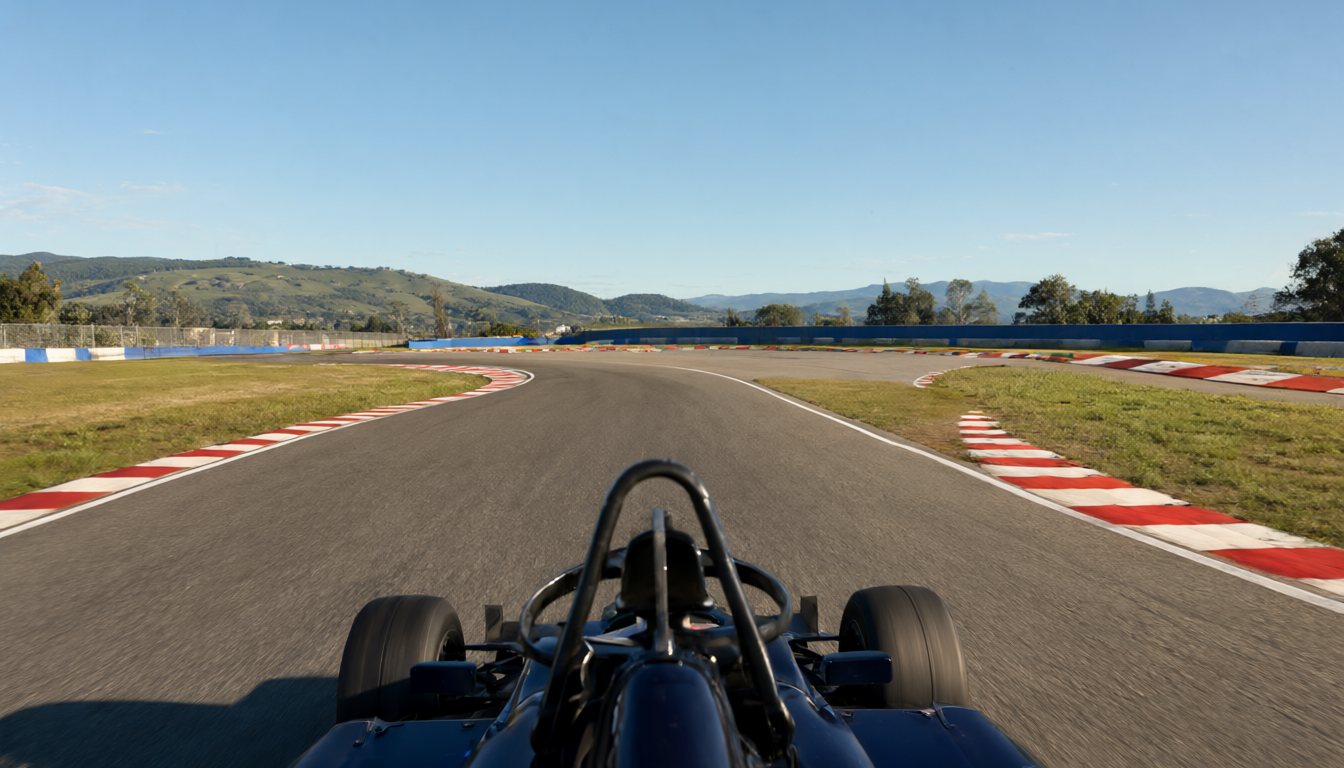
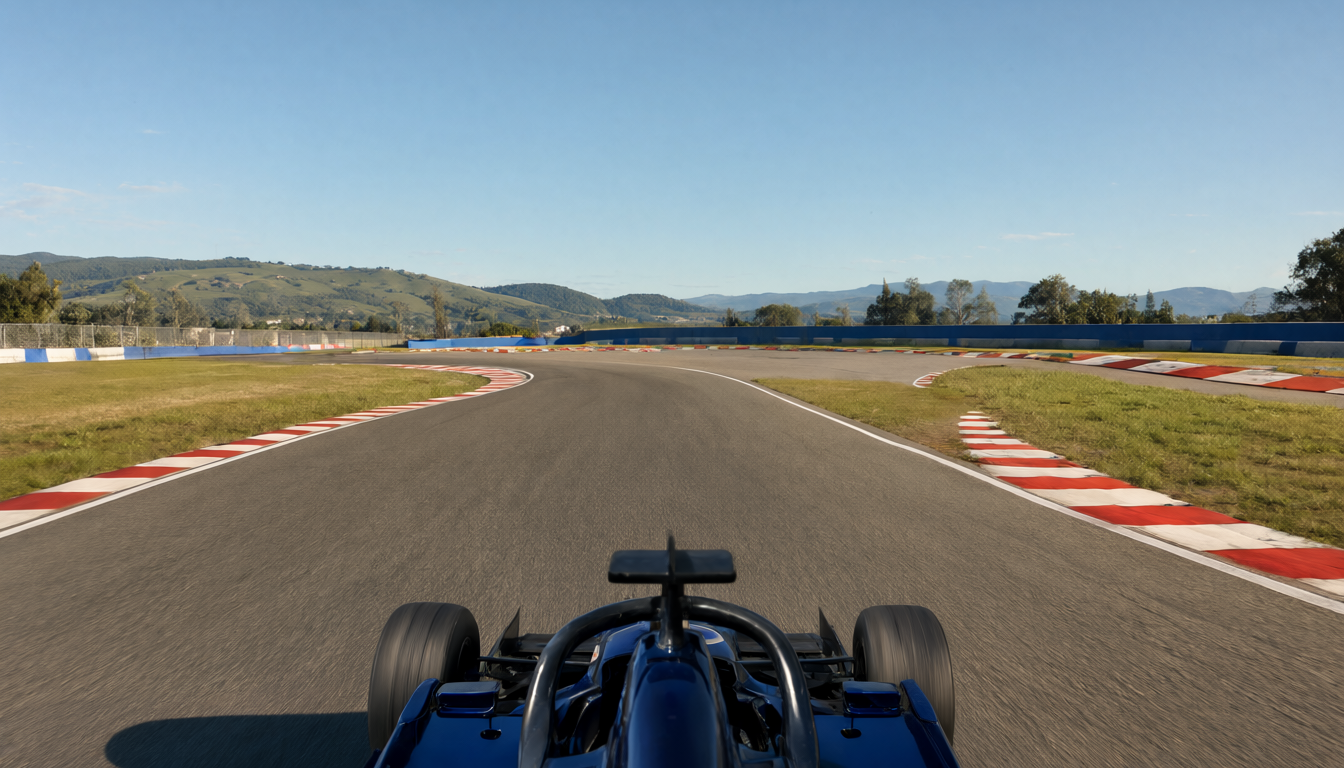
align light gantry and reshoot all shots with consistent car

diff --git a/scripts/make_notebooks.py b/scripts/make_notebooks.py
@@ -471,27 +471,27 @@ Each colour is the stretch one shot drives, and the circles mark the keyframes. 
 
 关键帧是镜头之间的“合同”：视频从首帧出发、必须到达尾帧，尾帧里画了什么，模型就往哪里开。所以每张图都要对照分镜检查，最重要的一条是：前方的路往哪边弯，要和地图一致。
 
-节点没有随机种子，提示词不变时重新生成也是同一张图。所以每张关键帧只生成 1 次；不对的时候，找出哪里和分镜不符，把它写进场景描述，再生成。下面是原项目里 K0 的 4 个版本，每一版都只改了一个问题：
+节点没有随机种子，提示词不变时重新生成也是同一张图。所以每张关键帧只生成 1 次；不对的时候，找出哪里和分镜不符，把它写进场景描述，再生成。下面是同一张 K0 的几次生成，每次只改一个问题：
 
 1. 直道远端先左弯、再右弯、再上坡；地图上从起终点线只能看到 T1 一个左弯。场景改为直道笔直、尽头只有一个左弯、四周平坦。
 2. 左弯离得太近，直道看起来只有两三百米；地图上约 1 km。场景改为直道一直延伸到消失点，左弯只在消失点处隐约可见。
 3. 路对了，但起跑灯架远在红车后面，红灯只剩几个小点。场景改为灯架在车前约 20 米、占满画面上部。
 4. 定稿。
 
-7 镜头成片用的是第 1 版，第 6 章会看到它带来的问题。
+终点 K7 的灯架要和 K0 是同一个，所以 K7 的场景描述把 K0 灯架的样子逐项写了进去。
 """, """
 ## Chapter 4: keyframes
 
 Keyframes are the "contract" between shots: the video starts at the first frame and must arrive at the last one, so the model drives toward whatever the last frame shows. Check every image against the storyboard; the most important check is that the road ahead bends the same way as on the map.
 
-The nodes have no random seed: with an unchanged prompt, generating again gives the same image. So generate each keyframe once; when it is wrong, find where it disagrees with the storyboard, write that into the scene description and generate again. Below are the 4 versions of K0 from the original project, each fixing one problem:
+The nodes have no random seed: with an unchanged prompt, generating again gives the same image. So generate each keyframe once; when it is wrong, find where it disagrees with the storyboard, write that into the scene description and generate again. Below are several generations of the same K0, each fixing one problem:
 
 1. The far end of the straight bends left, then right, then climbs; from the start/finish line the map shows only one left-hander, T1. The scene was changed to a dead-straight straight ending in a single left-hander, flat all around.
 2. The left-hander is too close, so the straight looks only two or three hundred metres long; on the map it is about 1 km. The scene was changed so the straight runs to the vanishing point, with the left-hander only faintly visible there.
 3. The road is right, but the start light gantry is far behind the red car and the red lights are just a few dots. The scene was changed to put the gantry about 20 m ahead of the car, filling the top of the frame.
 4. Final.
 
-The 7-shot film used version 1; chapter 6 shows the problems it caused.
+The gantry in the finishing K7 must be the same one as in K0, so K7's scene description spells out K0's gantry piece by piece.
 """),
     code("""
 show(*[PROJECT / "examples" / "k0_versions" / f"K0_v{v}.jpg" for v in range(1, 5)], width=440)
@@ -526,44 +526,45 @@ for i in range(8):
 show(*[COMFY / "input" / f"dream7_K{i}.png" for i in range(8)], width=300)
 """),
     md("""
-### 统一车身和灯架
+### 统一车身
 
-`style` 里写了赛车的样子，文生图还是每张各画各的车：halo 顶上的部件有大有小、车身有的带红色、机位有高有低；终点 K7 的灯架也和起点 K0 不一样。
-首尾帧是两辆车时，视频会在中途换车，相邻镜头又共用关键帧。原项目是拼完成片才发现、回头编辑，几乎所有镜头都重拍了一遍，所以这一步放在拍镜头之前。
+`style` 里写了赛车的样子，文生图还是每张各画各的车：halo 顶上的部件有大有小、车身有的带红色或白色、机位有高有低。
+首尾帧是两辆车时，视频会在中途换车，相邻镜头又共用关键帧，所以这一步放在拍镜头之前。
 
 编辑用本地 Qwen Image 2.1 模型（约 17 GB，需要 GPU），不花额度；网关的图像编辑在 16:9 下会把整张图弄出颗粒和过度锐化，暂时不用。
 
 在浏览器里（路线 B）：
 
 1. 把下一格的 `DOWNLOAD` 改成 `True` 并运行，下载缺的模型（已有的会跳过），然后重启 ComfyUI 或刷新页面。
-2. 打开 `dream7_keyframes_edit`，点 Run：以 K0 为参考，把 K1–K7 的车改成 K0 那辆，K7 的灯架改成一排 5 个灯、全部熄灭。第一次运行要编译，7 张约 15 分钟。
-3. 逐张检查：车和 K0 是同一辆、机位一致，路面走向、红车、看台这些场景没被改掉。不行就补一句指令或换 KSampler 的 seed 再运行。
+2. 打开 `dream7_keyframes_edit`，点 Run：以 K1 为参考，把 K0、K2–K7 的车改成 K1 那辆。
+3. 逐张检查：车和 K1 是同一辆、机位一致，路面走向、红车、看台这些场景没被改掉。不行就补一句指令或换 KSampler 的 seed 再运行。
 4. 满意后运行再下一格，编辑结果会覆盖 `input/` 里的关键帧，然后刷新页面。
 
-路线 A 直接运行下面几格：模型不会下载，挑选格什么都不做。自带的关键帧和视频是当时还没有这一步时生成的，下面最后一格是这次编辑的对比。讲解提纲见 `docs/ch4_keyframes.md`。
+路线 A 直接运行下面几格：模型不会下载，挑选格什么都不做。自带的关键帧已经统一过车身，自带的视频就是用它们拍的；下面最后一格是编辑前后的对比。讲解提纲见 `docs/ch4_keyframes.md`。
 """, """
-### Make the car and the gantry consistent
+### Make the car consistent
 
-`style` describes the car, but text-to-image still draws a different car in each keyframe: the part on top of the halo changes size, some bodies have red on them, the camera sits higher or lower; the gantry in the finishing K7 also differs from the one in the starting K0.
-When the first and last frame show two different cars, the video swaps cars midway, and neighbouring shots share keyframes. The original project only noticed this after stitching the film and edited the keyframes then, so nearly every shot had to be redone; that is why this step comes before the shots.
+`style` describes the car, but text-to-image still draws a different car in each keyframe: the part on top of the halo changes size, some bodies have red or white on them, the camera sits higher or lower.
+When the first and last frame show two different cars, the video swaps cars midway, and neighbouring shots share keyframes, so this step comes before the shots.
 
 The edit runs the local Qwen Image 2.1 model (about 17 GB, needs a GPU) and costs no credits; the gateway's image edit comes back grainy and over-sharpened at 16:9, so it is not used for now.
 
 In the browser (route B):
 
 1. Set `DOWNLOAD` in the next cell to `True` and run it to download the missing models (existing ones are skipped), then restart ComfyUI or reload the page.
-2. Open `dream7_keyframes_edit` and click Run: with K0 as the reference, the car in K1–K7 becomes K0's car, and the gantry in K7 becomes a single row of five lights, all off. The first run compiles kernels; 7 images take about 15 minutes.
-3. Check each one: the same car as K0 at the same camera height, with the road, the red car and the grandstands unchanged. If one is off, add a sentence to its instruction or change the KSampler seed and run again.
+2. Open `dream7_keyframes_edit` and click Run: with K1 as the reference, the car in K0 and K2–K7 becomes K1's car.
+3. Check each one: the same car as K1 at the same camera height, with the road, the red car and the grandstands unchanged. If one is off, add a sentence to its instruction or change the KSampler seed and run again.
 4. When you are happy, run the cell after next: the edits overwrite the keyframes in `input/`. Then reload the page.
 
-For route A just run the cells below: no models are downloaded and the picker does nothing. The bundled keyframes and videos were made before this step existed; the last cell shows this edit before and after. Outline (in Chinese): `docs/ch4_keyframes.md`.
+For route A just run the cells below: no models are downloaded and the picker does nothing. The bundled keyframes already have the consistent car and the bundled videos were shot from them; the last cell shows the edit before and after. Outline (in Chinese): `docs/ch4_keyframes.md`.
 """),
     code(EDIT_MODELS_CODE.replace("NOTE", "路线 B 改成 True"), EDIT_MODELS_CODE.replace("NOTE", "set to True for route B")),
     code("""
-pick({f"K{i}": f"K{i}_edit_*.png" for i in range(1, 8)}, COMFY / "output" / "dream7", COMFY / "input" / "dream7_{}.png")
+pick({f"K{i}": f"K{i}_edit_*.png" for i in (0, 2, 3, 4, 5, 6, 7)}, COMFY / "output" / "dream7", COMFY / "input" / "dream7_{}.png")
 """),
     code("""
-show(*[PROJECT / "examples" / "car_edit" / f"{k}_{v}.jpg" for k in ("K2", "K6", "K7") for v in ("before", "after")], width=440)
+show(PROJECT / "examples" / "car_edit" / "K1_reference.jpg", width=440)
+show(*[PROJECT / "examples" / "car_edit" / f"{k}_{v}.jpg" for k in ("K0", "K2", "K6") for v in ("before", "after")], width=440)
 """),
     md("""
 ## 第 5 章：逐段拍镜头
@@ -659,12 +660,12 @@ show(MEDIA / "chicane_K5_first_try.png", PROJECT / "examples" / "keyframes" / "d
     md("""
 8 镜头分镜表 `storyboards/lap_8shots.json` 只重做 K4、K5 两张关键帧和镜头 4–6，其余关键帧复用第 4 章、镜头复用第 5 章的结果。
 原来的镜头 5 拆成了镜头 5（T7）和镜头 6（T8），中间多了 K5，所以后面的编号都往后顺延一位：7 镜头版的 K5、K6、K7 在这里是 K6、K7、K8，原来的镜头 6、7 在这里是镜头 7、8。对照下面的示意图看。
-路线 B：在浏览器里打开 `dream8_keyframes` 生成 K4、K5，对照分镜检查（不对就改场景描述再生成），运行下面的挑选格，刷新浏览器页面；再打开 `dream8_keyframes_edit`，以 `dream7_K0.png` 为参考统一 K4、K5 的车，检查后再运行一次挑选格（它取每张关键帧最新的一版，也就是编辑后的），刷新页面。然后打开 `dream8_shot_04` 到 `dream8_shot_06` 生成视频，回来把挑选格里视频的候选编号（`_t1_` 里的 1）改成你选的，再运行一次。
+路线 B：在浏览器里打开 `dream8_keyframes` 生成 K4、K5，对照分镜检查（不对就改场景描述再生成），运行下面的挑选格，刷新浏览器页面；再打开 `dream8_keyframes_edit`，以 `dream7_K1.png` 为参考统一 K4、K5 的车，检查后再运行一次挑选格（它取每张关键帧最新的一版，也就是编辑后的），刷新页面。然后打开 `dream8_shot_04` 到 `dream8_shot_06` 生成视频，回来把挑选格里视频的候选编号（`_t1_` 里的 1）改成你选的，再运行一次。
 路线 A 直接运行下面几格。最后拼出 8 镜头成片，和第 6 章的版本对比。
 """, """
 The 8-shot storyboard `storyboards/lap_8shots.json` redoes only keyframes K4 and K5 and shots 4–6; the other keyframes come from chapter 4 and the other shots from chapter 5.
 The old shot 5 is split into shot 5 (T7) and shot 6 (T8) with a new K5 between them, so everything after it shifts by one: the 7-shot K5, K6 and K7 are K6, K7 and K8 here, and the old shots 6 and 7 are shots 7 and 8. Compare with the map below.
-Route B: in the browser, open `dream8_keyframes` to generate K4 and K5 and check them against the storyboard (if one is wrong, edit its scene description and generate again), run the picker cell below and reload the page. Next open `dream8_keyframes_edit` to make the car in K4 and K5 match `dream7_K0.png`, check them, run the picker cell again (it takes the newest version of each keyframe, which is the edit) and reload the page. Then open `dream8_shot_04` to `dream8_shot_06` to generate the videos, come back, change the video take number in the picker cell (the 1 in `_t1_`) to the ones you chose, and run it again.
+Route B: in the browser, open `dream8_keyframes` to generate K4 and K5 and check them against the storyboard (if one is wrong, edit its scene description and generate again), run the picker cell below and reload the page. Next open `dream8_keyframes_edit` to make the car in K4 and K5 match `dream7_K1.png`, check them, run the picker cell again (it takes the newest version of each keyframe, which is the edit) and reload the page. Then open `dream8_shot_04` to `dream8_shot_06` to generate the videos, come back, change the video take number in the picker cell (the 1 in `_t1_`) to the ones you chose, and run it again.
 For route A just run the cells below. At the end you stitch the 8-shot film and compare it with the chapter 6 version.
 """),
     code("""

diff --git a/scripts/make_workflows.py b/scripts/make_workflows.py
@@ -44,10 +44,6 @@ def keyframe_prompt(k):
     return f"{k['scene']} {SB['style']}"
 
 
-def match_prompt(k):
-    return f"{MATCH['prompt']} {k['match']}" if "match" in k else MATCH["prompt"]
-
-
 def video_prompt(shot):
     return f"{shot['motion']} {SB['video_rules']} Visual style: {SB['style']}"
 
@@ -139,13 +135,11 @@ def keyframes_workflow(kids, path):
 
 def edit_workflow(kids, path):
     ref = keyframe_file(MATCH["reference"])
-    extra = [kid for kid in kids if "match" in KEYFRAMES[kid]]
     g = Graph()
     g.note((-2160, 0), (460, 980 + 24 * len(kids)), "\n".join([
-        "## 统一车身和灯架（本地 Qwen Image 2.1 图像编辑）",
+        "## 统一车身（本地 Qwen Image 2.1 图像编辑）",
         "",
-        f"文生图的每张关键帧各画各的车。这里以 `input/{ref}` 为参考（image 2），把每张关键帧（image 1）里的车改成和它一致"
-        + (f"；{'、'.join(extra)} 还会把起跑灯架改成和参考图一样、灯全部熄灭" if extra else "") + "。",
+        f"文生图的每张关键帧各画各的车。这里以 `input/{ref}` 为参考（image 2），把每张关键帧（image 1）里的车改成和它一致。",
         "同一个镜头的首尾帧如果是两辆车，视频中途就会换车，所以要在拍镜头之前统一。",
         "",
         "这一步在本机 GPU 上跑，不花额度：网关的图像编辑在 16:9 下会把整张图弄出颗粒和过度锐化。"
@@ -182,7 +176,7 @@ def edit_workflow(kids, path):
         y = r * 420
         g.group(f"{kid} · {k['label']}", -1660, y - 40, 1920, 400)
         load = g.node("LoadImage", (-1640, y), (340, 330), [keyframe_file(kid), "image"], outputs=[("IMAGE", "IMAGE"), ("MASK", "MASK")], color=False)
-        enc = g.node("TextEncodeQwenImage21", (-1260, y), (420, 330), [match_prompt(k), "", 0],
+        enc = g.node("TextEncodeQwenImage21", (-1260, y), (420, 330), [MATCH["prompt"], "", 0],
                      inputs=[("clip", "CLIP", False), ("vae", "VAE", True), ("images.image_1", "IMAGE", True), ("images.image_2", "IMAGE", True)],
                      outputs=[("positive", "CONDITIONING"), ("negative", "CONDITIONING"), ("latent", "LATENT")])
         ks = g.node("KSampler", (-800, y), (320, 330), [EDIT_SEED, "fixed", EDIT_STEPS, 1, "euler", "simple", 1],
@@ -284,18 +278,21 @@ def storyboard_md(path):
         f"全部生成一遍约为 {len(GEN_KEYFRAMES)} 张图（每改一次多 1 张）加 {len(GEN_SHOTS) * vid['takes']} 段视频。",
     ]
     if EDIT_KEYFRAMES:
-        L.append(f"- 统一车身的编辑用本地 Qwen Image 2.1 模型，不花额度，但需要本机 GPU 和约 17 GB 的模型文件（见下面“统一车身和灯架”）。")
+        L.append(f"- 统一车身的编辑用本地 Qwen Image 2.1 模型，不花额度，但需要本机 GPU 和约 17 GB 的模型文件（见下面“统一车身”）。")
     L += [
         "",
     ]
     if "pilot" in SB:
         a, b = SB["pilot"]
+        ref = MATCH["reference"]
+        edited = [kid for kid in SB["pilot"] if kid != ref]
         L += [
             f"## 第 {next(step)} 步：试拍（强烈建议先做）",
             "",
             f"1. 打开 `{N}_keyframes_pilot`，点运行，只生成 {a} 和 {b}。",
             f"2. 对照分镜检查（见下一步），定稿后复制为 `input/{keyframe_file(a)}` 和 `input/{keyframe_file(b)}`（命令见下面“复制到 input”）。",
-            f"3. 打开 `{N}_keyframes_edit_pilot`，点运行，把 {b} 的车统一成 {a} 那辆，检查后覆盖 `input/{keyframe_file(b)}`（见下面“统一车身和灯架”）。",
+            f"3. 打开 `{N}_keyframes_edit_pilot`，点运行，把 {'、'.join(edited)} 的车统一成 {ref} 那辆，检查后覆盖 "
+            + "、".join(f"`input/{keyframe_file(kid)}`" for kid in edited) + "（见下面“统一车身”）。",
             f"4. 打开 `{N}_shot_01`，点运行。看三件事：画风是否满意；视频开头和结尾是否贴近两张关键帧；速度感和方向是否对。",
             f"5. 满意了再继续。不满意就先改 `{SHOTS_FILE}` 里的 `style`、`scene` 或 `motion`，重新运行 `make_workflows.py`，再重拍。",
             "",
@@ -331,16 +328,14 @@ def storyboard_md(path):
     ]
     if EDIT_KEYFRAMES:
         ref = MATCH["reference"]
-        extra = [kid for kid in EDIT_KEYFRAMES if "match" in KEYFRAMES[kid]]
         L += [
-            f"## 第 {next(step)} 步：统一车身和灯架",
+            f"## 第 {next(step)} 步：统一车身",
             "",
             f"文生图的每张关键帧各画各的车：halo 顶上的部件、车身颜色、机位高低都可能不同。同一个镜头的首尾帧如果是两辆车，视频中途就会换车，"
             "相邻镜头又共用关键帧，所以要在拍镜头之前把所有关键帧统一成同一辆车。",
             "",
             f"打开 `{N}_keyframes_edit`，点运行：以 `input/{keyframe_file(ref)}` 为参考图，把 {'、'.join(EDIT_KEYFRAMES)} 里的车改成和 {ref} 一致"
-            + (f"；{'、'.join(extra)} 还会把起跑灯架改成和 {ref} 一样、灯全部熄灭" if extra else "")
-            + f"。结果在 `output/{N}/{EDIT_KEYFRAMES[0]}_edit_00001_.png` 这样的文件里。",
+            f"。结果在 `output/{N}/{EDIT_KEYFRAMES[0]}_edit_00001_.png` 这样的文件里。",
             "",
             "这一步用本地 Qwen Image 2.1 模型，不花额度：网关的图像编辑在 16:9 下会把整张图弄出颗粒和过度锐化。需要以下模型（约 17 GB），"
             "缺的话打开工作流时 ComfyUI 会提示下载，也可以手动下载：",
@@ -360,7 +355,7 @@ def storyboard_md(path):
             *[f"cp output/{N}/{kid}_edit_00001_.png input/{keyframe_file(kid)}" for kid in EDIT_KEYFRAMES],
             "```",
             "",
-            f"编辑指令在 `{SHOTS_FILE}` 的 `keyframe.match`" + ("，灯架那一句在对应关键帧的 `match`" if extra else "") + "。",
+            f"编辑指令在 `{SHOTS_FILE}` 的 `keyframe.match`。",
             "",
         ]
     L += [

diff --git a/docs/ch4_keyframes.md b/docs/ch4_keyframes.md
@@ -2,14 +2,14 @@
 
 ## 目标
 
-用 Qwen Image 2.1 为每个镜头交界处生成一张车手视角的关键帧，K0 到 K7 共 8 张；学会对照分镜检查，不对就改场景描述再生成；拍镜头之前，用图像编辑把所有关键帧的车身和起跑灯架统一成 K0 的样子。
+用 Qwen Image 2.1 为每个镜头交界处生成一张车手视角的关键帧，K0 到 K7 共 8 张；学会对照分镜检查，不对就改场景描述再生成；拍镜头之前，用图像编辑把所有关键帧的车身统一成 K1 的样子。
 
 ## 讲解要点
 
 - **关键帧是镜头之间的“合同”。** 下一章的视频从首帧出发、必须到达尾帧；尾帧里画了什么，模型就会往哪里开。所以关键帧必须和地图一致，而不只是好看。
 - **提示词 = 场景 + 风格。** 场景来自分镜表的 `keyframes[].scene`，描述这个位置车手看到什么，特别是前方的路往哪边弯；风格是所有关键帧共用的 `style`，保证机位、赛车和天气一致。
 - **每张只生成 1 次，靠改描述迭代。** 节点没有随机种子，提示词不变时重新生成也是同一张图；在提示词末尾加几个字凑出的“候选”也几乎一样。画面不对时，要找出哪里和分镜不符，把它写进场景描述，再生成。
-- **拍镜头之前先统一车身。** `style` 里写了赛车的样子，文生图还是每张各画各的车：halo 顶上的部件有大有小、车身有的带红色、机位有高有低。首尾帧是两辆车时，视频会在中途换车；相邻镜头又共用关键帧，所以一张不一致会牵连两个镜头。终点的 K7 也一样，灯架要和起点 K0 是同一个。原项目是拼完成片才发现这个问题、回头编辑关键帧，结果几乎所有镜头都要重拍；所以这一步要放在关键帧定稿之后、拍镜头之前。
+- **拍镜头之前先统一车身。** `style` 里写了赛车的样子，文生图还是每张各画各的车：halo 顶上的部件有大有小、车身有的带红色、机位有高有低。首尾帧是两辆车时，视频会在中途换车；相邻镜头又共用关键帧，所以一张不一致会牵连两个镜头。这一步要放在关键帧定稿之后、拍镜头之前。
 - **统一车身用本地模型。** 编辑用的是本地 Qwen Image 2.1（3 个模型约 17 GB，需要本机 GPU），不花额度。网关也能做图像编辑，但在 16:9 下会把整张图弄出颗粒和过度锐化，暂时不能用。
 
 ## 演示（浏览器）
@@ -18,23 +18,23 @@
 2. `dream7_keyframes`：生成全部 8 张，8 个额度（每张 30 步 = 1 个额度）。
 3. 逐张对照分镜检查（见下面“检查什么”）。哪张不对，就在 ComfyUI 里改那个节点提示词开头的场景描述（`Photorealistic onboard` 之前的部分），再点 Run。ComfyUI 只会重新生成提示词改过的那张，每改一次 1 个额度。ComfyUI 重启过的话，之前的结果不再缓存，点 Run 会把每张都重新生成；只想重做一张时，先选中其他行的 Save Image 节点，按 Ctrl+M 静音。
 4. 定稿后复制进 ComfyUI 的 `input/`，文件名为 `dream7_K0.png` 到 `dream7_K7.png`。下一章镜头工作流的 `LoadImage` 只认这些文件名，工作流左侧的说明里有现成命令。改好的场景描述最好写回分镜表，否则下次重新运行 `make_workflows.py --install` 时会被覆盖。
-5. `dream7_keyframes_edit`：以 `input/dream7_K0.png` 为参考图（image 2），把 K1–K7（image 1）里的车改成 K0 那辆；K7 还会把起跑灯架改成和 K0 一样：一排 5 个灯、全部熄灭、下面不挂东西。缺模型时打开工作流会提示下载，说明节点里也列了文件名。在 Radeon AI PRO R9700 上，第一次运行 7 张约 15 分钟（含编译），之后每张 1–2 分钟。
-6. 逐张检查：车和 K0 是同一辆、机位高度一致；路面走向、弯道、红车、看台这些场景内容没被改掉。哪张不行就在它的指令里补一句，或者换一个 KSampler 的 seed 再运行（本地模型有 seed，和云端节点不一样）。满意后用 `K*_edit_00001_.png` 覆盖 `input/` 里对应的关键帧，命令在说明节点里。
+5. `dream7_keyframes_edit`：以 `input/dream7_K1.png` 为参考图（image 2），把 K0、K2–K7（image 1）里的车改成 K1 那辆。缺模型时打开工作流会提示下载，说明节点里也列了文件名。
+6. 逐张检查：车和 K1 是同一辆、机位高度一致；路面走向、弯道、红车、看台这些场景内容没被改掉。哪张不行就在它的指令里补一句，或者换一个 KSampler 的 seed 再运行（本地模型有 seed，和云端节点不一样）。满意后用 `K*_edit_00001_.png` 覆盖 `input/` 里对应的关键帧，命令在说明节点里。
 
-实际项目里，定好 K0、K1 后应该先拍镜头 1 试一下，确认没问题再生成其余关键帧，免得画风不对时整批重来；`dream7_keyframes_pilot` 之后先跑 `dream7_keyframes_edit_pilot` 统一 K1 的车，再拍镜头 1。这里直接往下走，镜头 1 放在下一章开头拍。
+实际项目里，定好 K0、K1 后应该先拍镜头 1 试一下，确认没问题再生成其余关键帧，免得画风不对时整批重来；`dream7_keyframes_pilot` 之后先跑 `dream7_keyframes_edit_pilot` 把 K0 的车统一成 K1 的，再拍镜头 1。这里直接往下走，镜头 1 放在下一章开头拍。
 
-不想花额度时，notebook 会把项目自带的关键帧（`examples/keyframes/dream7_K*.png`）复制进 `input/`。这些是当时用的图，提示词和项目工作流完全一致；当时还没有统一车身这一步，所以它们和自带的视频都是编辑前的版本。
+不想花额度时，notebook 会把项目自带的关键帧（`examples/keyframes/dream7_K*.png`）复制进 `input/`。提示词和项目工作流完全一致；K1 是文生图的原图，其余是统一车身之后的版本，自带的视频就是用这些图拍的。
 
 ## 检查什么
 
 - **前方路面的走向和分镜一致：** 该左转的图，路就要往左弯；远端只该有一个弯时，不能画出两个。**这一条最重要，第 7 章会看到原因。**
 - **距离和比例对得上：** 直道有多长、离弯道多远，和小地图一致。
-- **该有的东西都在：** 起终点的灯架、看台、红车这类后面镜头要用到的元素。
-- **和其他关键帧一致：** 镜头高度、halo 和座舱顶部在画面底部的位置。赛车外观和灯架的差异留给第 5、6 步的编辑统一，生成时不用为它反复改描述。
+- **该有的东西都在：** 起终点的灯架、看台、红车这类后面镜头要用到的元素。终点 K7 的灯架要和起点 K0 是同一个：把 K0 灯架的样子逐项写进 K7 的场景描述（立柱、灯板、灯的数量、桁架下面挂不挂东西）。
+- **和其他关键帧一致：** 镜头高度、halo 和座舱顶部在画面底部的位置。赛车外观的差异留给第 5、6 步的编辑统一，生成时不用为它反复改描述。
 
-## 实例：K0 改了 3 次
+## 实例：对照地图修改 K0 的场景描述
 
-原项目里的 K0 前后有 4 个版本，每一版都是对照地图找出一个问题，改一句场景描述，再生成一次。图在 `examples/k0_versions/`。
+下面是同一张 K0 的几次生成，每次找出一个和地图不符的地方，改一句场景描述，再生成。图在 `examples/k0_versions/`。
 
 | 版本 | 图 | 对照分镜发现的问题 | 场景描述怎么改 |
 |---|---|---|---|
@@ -43,19 +43,17 @@
 | 3 | ![v3](../examples/k0_versions/K0_v3.jpg) | 路对了，但起跑灯架远在红车后面，红灯只剩几个小点。镜头 1 起步时要从灯架下穿过，终点关键帧也要和它对应 | 写明灯架在车前约 20 米、占满画面上部，5 个大红灯清楚可见，红车停在灯架附近 |
 | 4 | ![v4](../examples/k0_versions/K0_v4.jpg) | 定稿 | |
 
-3 次修改一共多花 3 个额度。每次只改一个问题，下一版才知道这一句改得对不对。
+每次只改一个问题，下一版才知道这一句改得对不对。
 
-7 镜头成片用的是第 1 版：当时只从几乎一样的候选里挑了一张，没有逐条对照地图。第 6 章看成片时会遇到它带来的问题。
+## 实例：统一车身
 
-## 实例：统一车身和灯架
-
-左边是文生图的原图，右边是以 K0 为参考编辑后的结果。图在 `examples/car_edit/`。
+左边是文生图的原图，右边是以 K1 为参考编辑后的结果。图在 `examples/car_edit/`。
 
 | 关键帧 | 编辑前 | 编辑后 | 变化 |
 |---|---|---|---|
-| K0（参考） | ![K0](../examples/car_edit/K0_reference.jpg) | | |
-| K2 | ![K2 前](../examples/car_edit/K2_before.jpg) | ![K2 后](../examples/car_edit/K2_after.jpg) | 座舱里的红色部件去掉，halo 顶上换成 K0 的扁平黑色部件 |
-| K6 | ![K6 前](../examples/car_edit/K6_before.jpg) | ![K6 后](../examples/car_edit/K6_after.jpg) | halo 顶上的大黑盒子换成 K0 的部件 |
-| K7 | ![K7 前](../examples/car_edit/K7_before.jpg) | ![K7 后](../examples/car_edit/K7_after.jpg) | 两组共 10 个灯、下面还挂着一个盒子的灯架，换成 K0 的一排 5 个灯，灯全部熄灭 |
+| K1（参考） | ![K1](../examples/car_edit/K1_reference.jpg) | | |
+| K0 | ![K0 前](../examples/car_edit/K0_before.jpg) | ![K0 后](../examples/car_edit/K0_after.jpg) | 座舱两侧的白色部件去掉，换成 K1 的黑色 halo 和中柱顶上的扁平部件 |
+| K2 | ![K2 前](../examples/car_edit/K2_before.jpg) | ![K2 后](../examples/car_edit/K2_after.jpg) | 座舱里的红色部件去掉，halo 顶上的大方块换成 K1 的扁平部件 |
+| K6 | ![K6 前](../examples/car_edit/K6_before.jpg) | ![K6 后](../examples/car_edit/K6_after.jpg) | 近乎黑色的车身换成 K1 的深蓝色，halo 顶上的大部件换成 K1 的 |
 
-场景几乎不变：路面、路肩、护墙、看台都还在原来的位置，整体亮度变化在 3% 以内。
+场景几乎不变：路面、路肩、护墙、看台、灯架都还在原来的位置，整体亮度变化在 4% 以内。

diff --git a/README.md b/README.md
@@ -67,7 +67,7 @@ Use the Python environment that runs ComfyUI for `python` and `pip`. With the Wi
 4. Start ComfyUI: `python main.py` in the ComfyUI directory (the GPU launcher for the Windows portable build). Without a GPU use CPU mode, `python main.py --cpu` (`run_cpu.bat` for the portable build); the car edit in chapters 4 and 7 cannot run then, so use the bundled media for it. Open http://127.0.0.1:8188, close the Templates dialog shown on first launch, and press `w` for the workflow list with `dream7_*` and `dream8_*`. Restart ComfyUI if it was running before the nodes were installed; press F5 if the workflows do not show up.
 5. Follow the chapters. Each workflow has a note on its left listing what to prepare; [storyboard_dream7.md](docs/storyboard_dream7.md) and [storyboard_dream8.md](docs/storyboard_dream8.md) collect the frames, prompts and copy commands for every shot.
    - **Ch. 2**: drag `workflows/ch2_single_prompt.json` onto the canvas, upload `assets/fictional_track_v1.png` in the Load Image node, press Run. The historical takes are `media/ch2_single_prompt_*.mp4`.
-   - **Ch. 4**: run `dream7_keyframes_pilot` (K0, K1), then `dream7_keyframes`. Check each image against the storyboard; if it is wrong, edit the scene description at the start of that node's prompt and run again. Copy the final images from `ComfyUI/output/dream7/` to `ComfyUI/input/dream7_K0.png` … `dream7_K7.png`. Then run `dream7_keyframes_edit`, which uses K0 as the reference to make the car in K1–K7 and the gantry in K7 match it (local model; ComfyUI offers to download it if missing), check the results and copy the `K*_edit_*.png` files over the keyframes in `input/`. To skip all this, copy `examples/keyframes/dream7_K*.png` to `input/` instead (these predate the edit and match the bundled videos).
+   - **Ch. 4**: run `dream7_keyframes_pilot` (K0, K1), then `dream7_keyframes`. Check each image against the storyboard; if it is wrong, edit the scene description at the start of that node's prompt and run again. Copy the final images from `ComfyUI/output/dream7/` to `ComfyUI/input/dream7_K0.png` … `dream7_K7.png`. Then run `dream7_keyframes_edit`, which uses K1 as the reference to make the car in K0 and K2–K7 match it (local model; ComfyUI offers to download it if missing), check the results and copy the `K*_edit_*.png` files over the keyframes in `input/`. To skip all this, copy `examples/keyframes/dream7_K*.png` to `input/` instead (already edited; the bundled videos were shot from them).
    - **Ch. 5**: press F5, run `dream7_shot_01` … `dream7_shot_07`. Copy your picks from `ComfyUI/output/video/dream7/` to `ComfyUI/output/video/dream7/selected/shot_01.mp4` …, or copy `media/dream7_shot_0X.mp4` there.
    - **Ch. 6**: `python scripts/stitch_lap.py` writes `output/dream_circuit_7shots.mp4` in this repository. Options: `--en`, `--no-minimap`, `--placeholder`.
    - **Ch. 7**: run `dream8_keyframes` and then `dream8_keyframes_edit`, put the edited K4 and K5 at `input/dream8_K4.png` and `dream8_K5.png`, press F5, run `dream8_shot_04` … `dream8_shot_06` and put the picks in `output/video/dream8/selected/`. The bundled versions are `examples/keyframes/dream8_K*.png` and `media/dream8_shot_0X.mp4`. Then `python scripts/stitch_lap.py --shots lap_8shots.json`.
@@ -123,7 +123,7 @@ For JupyterLab/JupyterHub images with ComfyUI at `/comfyui_workspace/ComfyUI` (o
 | `workflows/` | ComfyUI workflows generated by `make_workflows.py` (except `ch2_single_prompt.json`) |
 | `examples/keyframes/` | The keyframes picked at the time, ready to copy into ComfyUI's `input/` |
 | `examples/k0_versions/` | Chapter 4 example: four versions of K0 |
-| `examples/car_edit/` | Chapter 4 example: K2, K6 and K7 before and after the car and gantry edit |
+| `examples/car_edit/` | Chapter 4 example: the K1 reference, and K0, K2 and K6 before and after the car edit |
 | `assets/` | Track map, minimap, per-shot minimap paths, and the 7-shot and 8-shot storyboard maps |
 | `media/` | Historical videos, downloaded by `fetch_media.py` from `media/manifest.json` |
 | `scripts/` | Workflow and notebook generation, stitching, storyboard maps, media download and cloud launch scripts |

diff --git a/docs/ch8_wrapup.md b/docs/ch8_wrapup.md
@@ -13,8 +13,6 @@
 原项目 [f1_circuit](https://github.com/wangxunx/f1_circuit) 在 8 镜头的基础上继续迭代：
 
 - 下坡直道和 T9 也拆成两个镜头，并重画了 T9 前的刹车点关键帧，最终是 9 个镜头。
-- 重画了 K0（远端只在消失点处隐约看到左弯）和终点关键帧（灯架和 K0 一致）。
-- 用 Qwen Image 的图像编辑工作流，以一张关键帧为参考，把所有关键帧里的车体改成一致：同一个镜头的首尾帧如果是两辆车，视频中途就会换车。
 - 关键帧的光照也要符合朝向：赛道几乎掉头的地方，下一张关键帧应该是逆光，否则模型会多转一个弯把太阳转回身后。
 - 设计了版本 2 赛道：T9 之后改成三个紧凑的连续弯再接最后一弯（约 5.18 km、13 个弯）。T9 之前的镜头全部复用版本 1，只新生成 2 张关键帧和 3 段视频。
 

diff --git a/docs/ch6_problems.md b/docs/ch6_problems.md
@@ -18,8 +18,6 @@
 |---|---|---|
 | 镜头 5（约 32–39 秒） | 地图上 T7 右、T8 左，画面里只有一个左弯；小地图红点还在直道上，画面已经入弯 | 分镜：一个镜头里有两次转向；关键帧：K4 远端画成了左弯 |
 | 镜头 6（约 39–46 秒） | 下坡直道还没跑完，约第 3 秒突然切到另一个场景，进入 T9 | 分镜：一个镜头里塞了长直道加一个弯 |
-| 镜头 1 | K0 远端多画了弯，和地图上的长直道不符 | 关键帧 |
-| 镜头 7 结尾 | 终点灯架的样子和起点 K0 不一致 | 关键帧 |
 | 所有镜头 | 早期每个镜头的两个候选几乎一样，等于只有一个可选 | 提示词：候选之间只差末尾空格，现在改成 `Take N.` |
 | 拼接处 | 按请求时长截断时，接缝会跳 | 拼接：现在按实际时长拼接 |
 

diff --git a/docs/ch5_shots.md b/docs/ch5_shots.md
@@ -16,7 +16,7 @@
 2. 满意后依次打开 `dream7_shot_02` 到 `dream7_shot_07`，每个镜头 2 个候选，最多 14 段视频。
 3. 选好的复制为 ComfyUI 的 `output/video/dream7/selected/shot_0X.mp4`，工作流左侧的说明里有现成命令。
 
-不想花额度时，notebook 会把项目自带的视频（`media/dream7_shot_0*.mp4`）复制到 `selected/`。这些是当时选中的结果，提示词和项目工作流的第 1 个候选完全一致；不会覆盖你自己已经选好的文件。
+不想花额度时，notebook 会把项目自带的视频（`media/dream7_shot_0*.mp4`）复制到 `selected/`。这些是用自带关键帧拍、选中的结果，提示词和项目工作流里对应的候选完全一致；不会覆盖你自己已经选好的文件。
 
 ## 挑视频看什么
 
